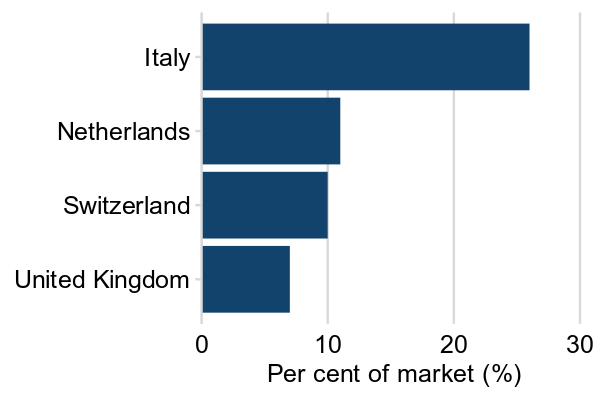
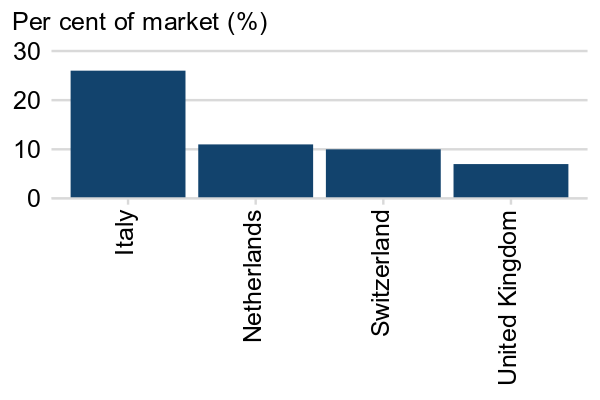
Corrected Example 19

diff --git a/docs/data-vis.md b/docs/data-vis.md
@@ -818,7 +818,7 @@ If your labels are too long to fit horizontally on the bottom of the chart, you 
 {% capture card_content_18 %}
 Example 19: Market shares of four largest importers for a product, USA, 2024
 <div>
-<img src="assets/img/data viz/Example 19.png" width="450px" class="center" alt="A bar chart labelled using slanted text" style ="display: block; margin: auto;">
+<img src="assets/img/data viz/Example 19.png" width="450px" class="center" alt="A bar chart labelled using vertical text" style ="display: block; margin: auto;">
 </div>
 {% endcapture %}
 
